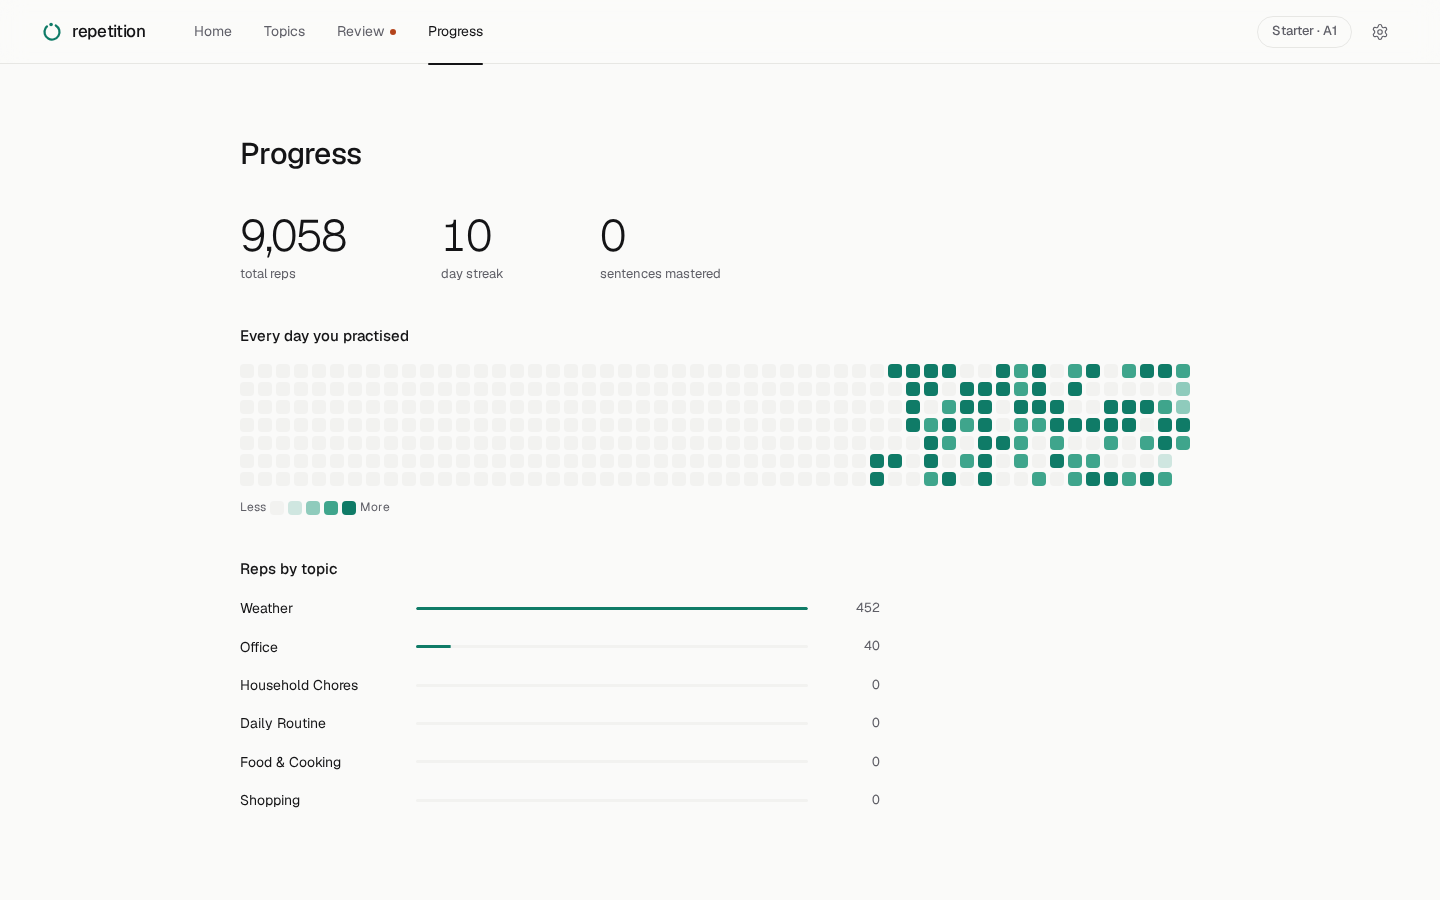
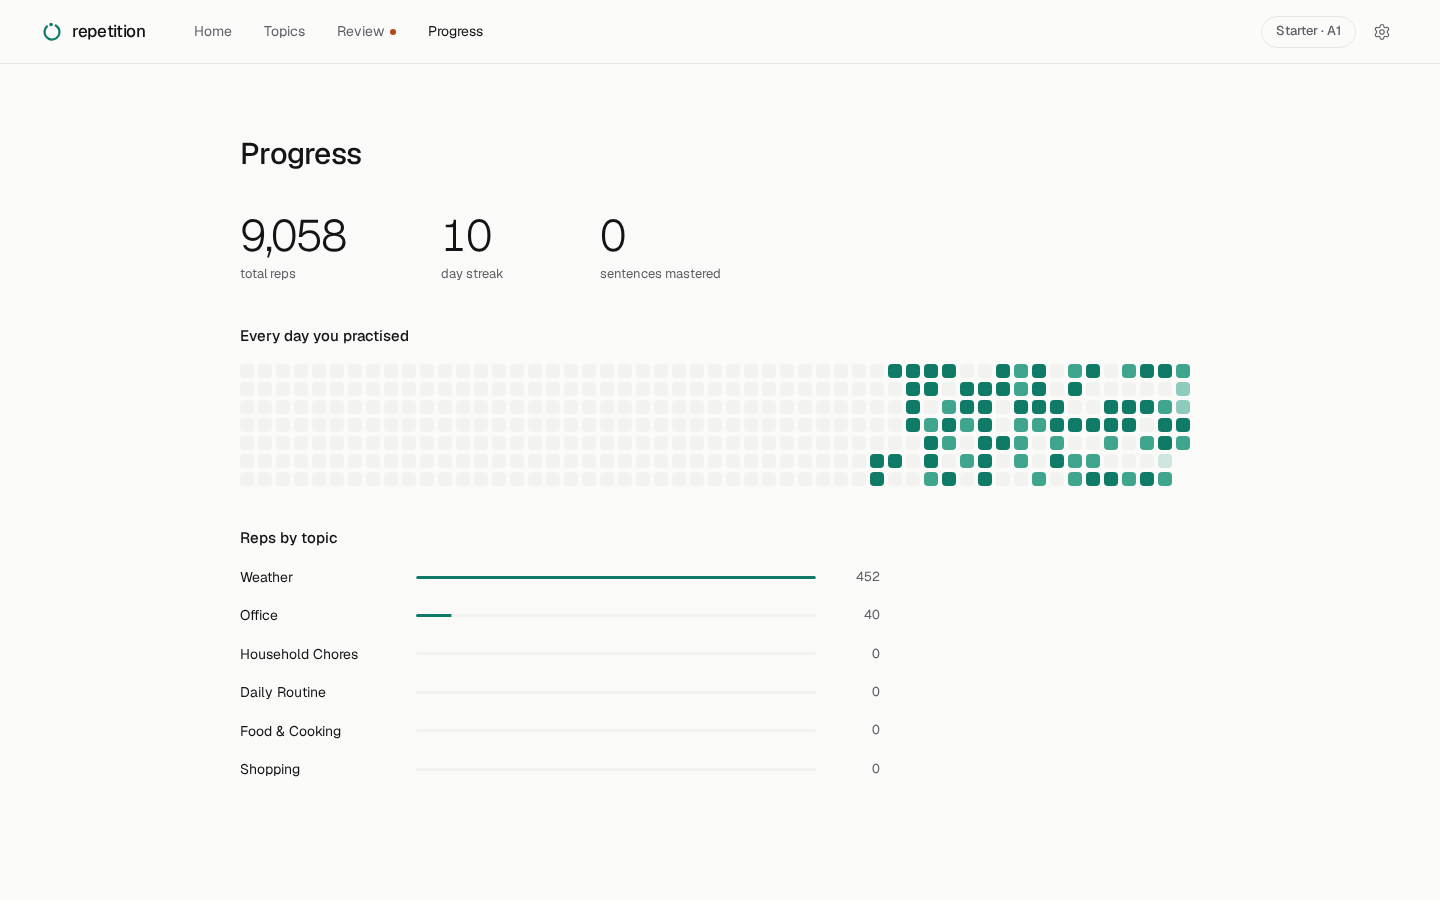
Match the app to the design canvas
- Sentence-case grammar names ("Present simple", "Future with will")
- Topic page: 48px top, 32px rhythm, short pill labels for statements
- Nav: active link in ink with no underline, 36px settings button
- Practice: 68px sentence line height, 220px word popover, 34px meaning
  line height, "Repeat again" after the last rep
- Summary: two actions only, as designed
- Home: date and section label as designed; Progress: no legend row,
  48px value column

Claude-Session: https://claude.ai/code/session_01Fs1CP5NHYaujScXUTXeNqD

diff --git a/src/pages/Practice.tsx b/src/pages/Practice.tsx
@@ -167,7 +167,7 @@ function PracticeRun({ sessionKey, kind }: { sessionKey: string; kind: Kind }) {
   const hidden = !settings.fade || complete ? 0 : kind === 'chain' ? 0.75 : fadeFraction(done, target, kind === 'review' ? 0.5 : 0);
 
   if (finishedAt) {
-    return <Summary sessionKey={sessionKey} kind={kind} counts={counts} target={target} elapsed={finishedAt - startedAt} />;
+    return <Summary sessionKey={sessionKey} kind={kind} counts={counts} elapsed={finishedAt - startedAt} />;
   }
 
   const mainButton = complete ? (
@@ -337,7 +337,7 @@ function PracticeRun({ sessionKey, kind }: { sessionKey: string; kind: Kind }) {
           {complete ? (
             mode === 'read' ? (
               <button className="btn btn-quiet" onClick={repeat}>
-                <RotateCcw size={16} strokeWidth={1.5} /> Once more
+                <RotateCcw size={16} strokeWidth={1.5} /> Repeat again
               </button>
             ) : (
               <span />
@@ -358,7 +358,7 @@ function PracticeRun({ sessionKey, kind }: { sessionKey: string; kind: Kind }) {
   );
 }
 
-function Summary({ sessionKey, kind, counts, target, elapsed }: { sessionKey: string; kind: Kind; counts: number[]; target: number; elapsed: number }) {
+function Summary({ sessionKey, kind, counts, elapsed }: { sessionKey: string; kind: Kind; counts: number[]; elapsed: number }) {
   const ref = findSession(sessionKey)!;
   const { state } = useStore();
   const next = nextSessionRef(sessionKey);
@@ -439,11 +439,6 @@ function Summary({ sessionKey, kind, counts, target, elapsed }: { sessionKey: st
           ) : (
             <Link to={topicUrl} className="btn btn-primary btn-lg">
               Back to topic
-            </Link>
-          )}
-          {kind !== 'chain' && target > 1 && (
-            <Link to={practicePath(sessionKey, '?chain=1')} className="btn btn-quiet">
-              One round from memory
             </Link>
           )}
           {next && (

diff --git a/src/styles/app.css b/src/styles/app.css
@@ -212,7 +212,7 @@ button:disabled {
 .seg button {
   position: relative;
   height: 34px;
-  padding: 0 16px;
+  padding: 0 18px;
   border: 0;
   border-radius: var(--radius-full);
   background: transparent;
@@ -359,15 +359,6 @@ button:disabled {
 .nav-link.active {
   color: var(--ink);
 }
-.nav-underline {
-  position: absolute;
-  left: 0;
-  right: 0;
-  bottom: -1px;
-  height: 2px;
-  border-radius: 2px;
-  background: var(--ink);
-}
 .due-dot {
   width: 6px;
   height: 6px;
@@ -392,6 +383,10 @@ button:disabled {
   color: var(--ink-muted);
   transition: border-color 0.16s, color 0.16s;
 }
+.nav-end .icon-btn {
+  width: 36px;
+  height: 36px;
+}
 .level-pill:hover {
   border-color: var(--ink-faint);
   color: var(--ink);
@@ -404,6 +399,10 @@ button:disabled {
   display: flex;
   flex-direction: column;
   gap: 40px;
+}
+.page.topic {
+  padding-top: 48px;
+  gap: 32px;
 }
 .page.narrow {
   width: min(640px, calc(100% - 80px));
@@ -714,7 +713,7 @@ button:disabled {
 }
 .sentence.size-xl {
   font-size: 56px;
-  line-height: 70px;
+  line-height: 68px;
   letter-spacing: -0.035em;
   max-width: 20ch;
 }
@@ -788,7 +787,7 @@ button:disabled {
   z-index: 30;
   top: calc(100% + 12px);
   left: 50%;
-  width: 232px;
+  width: 220px;
   display: flex;
   flex-direction: column;
   gap: 4px;
@@ -846,7 +845,7 @@ button:disabled {
   border-radius: var(--radius-md);
   background: var(--accent-soft);
   font-size: 22px;
-  line-height: 36px;
+  line-height: 34px;
   color: var(--ink);
   text-align: center;
 }
@@ -1134,7 +1133,7 @@ button:disabled {
 }
 .bar-row {
   display: grid;
-  grid-template-columns: 160px minmax(0, 1fr) 56px;
+  grid-template-columns: 160px minmax(0, 1fr) 48px;
   align-items: center;
   gap: 16px;
   font-size: 14px;

diff --git a/src/pages/Topic.tsx b/src/pages/Topic.tsx
@@ -4,7 +4,12 @@ import { Link, useParams } from 'react-router-dom';
 import { getLevel, getTopic, getTrack, grammarLabel, practicePath, sessionRefs, typeLabel } from '../lib/content';
 import { sessionStatus, trackProgress } from '../lib/progress';
 import { useStore } from '../lib/store';
+import type { SessionType } from '../lib/types';
 import { Bn, Page, rise, stagger } from '../components/ui';
+
+// Statements read as one word; question and paragraph types keep their full name.
+const pillLabel = (type: SessionType) =>
+  type === 'affirmative' || type === 'negative' ? typeLabel(type).short : typeLabel(type).title;
 
 export function Topic() {
   const { topic: topicId = '', level: levelId = '' } = useParams();
@@ -25,7 +30,7 @@ export function Topic() {
   const p = trackProgress(state, track);
 
   return (
-    <Page>
+    <Page className="page topic">
       <Link to="/topics" className="back">
         <ArrowLeft size={16} strokeWidth={1.5} /> Topics
       </Link>
@@ -68,7 +73,7 @@ export function Topic() {
                   return (
                     <Link key={ref.key} to={practicePath(ref.key, status === 'due' ? '?review=1' : '')} className={`pill ${cls}`}>
                       {status === 'done' && <Check size={14} strokeWidth={2} />}
-                      {typeLabel(ref.session.type).title}
+                      {pillLabel(ref.session.type)}
                       {status === 'due' && ' · due'}
                       {status === 'in-progress' && (
                         <span className="pill-count">

diff --git a/src/pages/Home.tsx b/src/pages/Home.tsx
@@ -1,7 +1,7 @@
 import { ArrowRight } from 'lucide-react';
 import { motion } from 'motion/react';
 import { Link } from 'react-router-dom';
-import { findSession, grammarLabel, levelTracks, practicePath, typeLabel } from '../lib/content';
+import { findSession, grammarLabel, levelTracks, practicePath } from '../lib/content';
 import { trackProgress } from '../lib/progress';
 import { dayKey, isDue } from '../lib/srs';
 import { useStore } from '../lib/store';
@@ -31,7 +31,7 @@ export function Home() {
       <motion.div className="page-head" variants={stagger} initial="hidden" animate="show">
         <div>
           <motion.span variants={rise} className="small muted">
-            {new Date().toLocaleDateString('en-GB', { weekday: 'long', day: 'numeric', month: 'long' })}
+            {new Date().toLocaleDateString('en-GB', { weekday: 'long' })}, {new Date().toLocaleDateString('en-GB', { day: 'numeric', month: 'long' })}
           </motion.span>
           <motion.h1 variants={rise} className="title">
             {greeting()}
@@ -51,7 +51,7 @@ export function Home() {
         >
           <div className="continue-text">
             <span className="label">
-              {ref.topic.title} · {grammarLabel(ref.unit.grammar).title} · {typeLabel(ref.session.type).short}
+              {ref.topic.title} · {grammarLabel(ref.unit.grammar).title}
             </span>
             <p className="continue-sentence">{item.title ?? item.en}</p>
             {!item.title && <Bn className="continue-bn">{item.bn}</Bn>}

diff --git a/src/components/Layout.tsx b/src/components/Layout.tsx
@@ -1,10 +1,9 @@
 import { Settings as SettingsIcon } from 'lucide-react';
-import { motion } from 'motion/react';
 import { Link, NavLink, Outlet, useLocation } from 'react-router-dom';
 import { getLevel } from '../lib/content';
 import { isDue } from '../lib/srs';
 import { useStore } from '../lib/store';
-import { EASE_OUT, Mark } from './ui';
+import { Mark } from './ui';
 
 const LINKS = [
   { to: '/', label: 'Home', end: true },
@@ -29,16 +28,8 @@ export function Layout() {
         <nav className="nav-links">
           {LINKS.map(({ to, label, end }) => (
             <NavLink key={to} to={to} end={end} className={({ isActive }) => `nav-link${isActive || (to === '/topics' && pathname.startsWith('/topic/')) ? ' active' : ''}`}>
-              {({ isActive: exact }) => {
-                const isActive = exact || (to === '/topics' && pathname.startsWith('/topic/'));
-                return (
-                <>
-                  {label}
-                  {label === 'Review' && due && <span className="due-dot" aria-label="Reviews due" />}
-                  {isActive && <motion.span layoutId="nav-underline" className="nav-underline" transition={{ duration: 0.32, ease: EASE_OUT }} />}
-                </>
-                );
-              }}
+              {label}
+              {label === 'Review' && due && <span className="due-dot" aria-label="Reviews due" />}
             </NavLink>
           ))}
         </nav>

diff --git a/src/pages/Progress.tsx b/src/pages/Progress.tsx
@@ -133,13 +133,6 @@ function Heatmap({ days, goal }: { days: Record<string, number>; goal: number })
           </span>
         )}
       </div>
-      <div className="heat-legend" style={{ marginTop: 12 }}>
-        Less
-        {[0, 1, 2, 3, 4].map((b) => (
-          <span key={b} className={`heat h${b}`} />
-        ))}
-        More
-      </div>
     </div>
   );
 }
